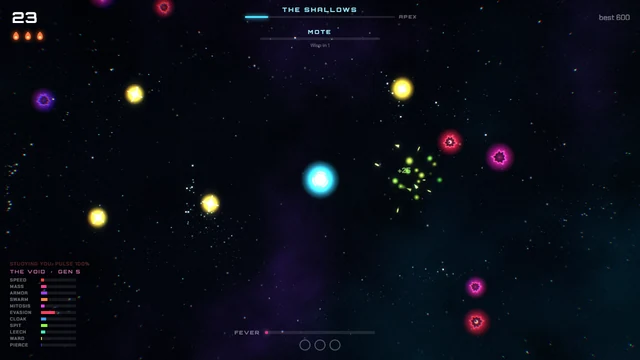
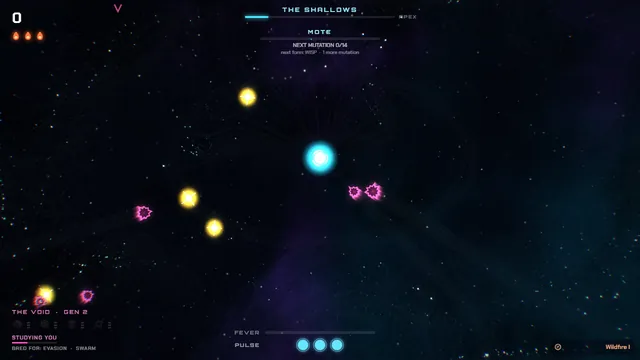
Verdant Relay's signal update, Ember 1.0, Foldworks Playability Update, Goblin Chapter Two; add Dumpster Alchemy and Nobody Mention the Moon
- Updated pages for Verdant Relay, Ember, Foldworks and Goblin Pension Plan
- Two new games at the front of the Prototypes shelf, with live screenshots
- New Ember screenshots for 1.0
- A devlog post for the week; Verdant Relay replaces Pixel RTS in the spotlight

diff --git a/content/devlog/2026-11-09-the-signal-update-and-more.md b/content/devlog/2026-11-09-the-signal-update-and-more.md
@@ -1,0 +1,47 @@
+---
+title: "Verdant Relay gets an ending, Ember 1.0, and two new games"
+date: 2026-11-09
+summary: Verdant Relay's signal update, Ember 1.0, the Foldworks Playability Update, Goblin Pension Plan's Chapter Two, plus Dumpster Alchemy and Nobody Mention the Moon.
+cover: /assets/games/dumpster-alchemy/shot1.webp
+game: verdant-relay
+---
+
+A big week. Four games got major updates and two new ones are up.
+
+## Verdant Relay: the signal update
+
+[Verdant Relay](/games/verdant-relay/) has an ending now. Kill the five area bosses across your runs, build the Uplink for 800 Research, then hold its signal through the Canopy Colossus.
+
+- **Shorter runs:** 4 nights, about 35 minutes. It used to be 6 nights.
+- **You fight at night:** your scavenger is on the board beside the towers. Hold E at a tower to overcharge it.
+- **What you find builds the run:** a run starts with three towers, and the Thorn Nest, Mortar Pod and Pulse Totem are blueprints you find in the jungle, and tower mods and machete upgrades are found, not crafted.
+- **More to chase:** four scavengers and eight legendary relics, each opened by a feat.
+- **Less to read:** a fresh first run shows about 17% fewer words, and the extra systems wait for run 2.
+
+Your Research and unlocks carry over, but a run saved before the update can't continue.
+
+## Ember 1.0: The Void's Turn
+
+[Ember](/games/ember/) hit 1.0. The void now answers how you kill it: pulse kills grow shells, loop kills grow wards, and each answer names its counter. Split your kills so no weapon makes 60% of them and the void can't read you. Forms are earned, every apex you slay evolves you, and the void remembers you between runs. A bot's typical run went from 174 seconds to 300.
+
+![Ember 1.0: the void card in the corner is studying you](/assets/games/ember/cover.webp)
+
+## Foldworks: the Playability Update
+
+[Foldworks](/games/foldworks/) had a full playability review and then a lot of changes. Folding is now the second research, so a bot's first fold went from 24 minutes to about 5. Finishing the Floating City is the ending, with credits. Machine Kits, machine modes, Inspiration and the Lucky Vein are cut, and the District routes itself. Old saves are converted.
+
+## Goblin Pension Plan: Chapter Two
+
+[Goblin Pension Plan](/games/goblin-pension-plan/) got a playability pass and a second chapter. The first trip has a fight of your own now, a guide line names your next step, and Chapter Two is the actual pension plan: six rungs of permits from the Goblin Door to the Four-Poster, each one changing the Burrow, up to Retirement Day.
+
+## New: Dumpster Alchemy
+
+[Dumpster Alchemy](/games/dumpster-alchemy/) is a gross, loud merge game. You run the night shift at a raccoon-run landfill: merge junk into better junk, brew 20 recipes, feed the raccoons and keep the stink down. Version 2.0 makes a run 10 nights across the County Dump with three boss nights.
+
+![Dumpster Alchemy: night 1 at Lot 9](/assets/games/dumpster-alchemy/shot1.webp)
+
+## New: Nobody Mention the Moon
+
+[Nobody Mention the Moon](/games/nobody-mention-the-moon/) is a co-op dinner party for up to 6. Every guest is a monster pretending to be human, and they all think you're one too. Your voice counts: say "moon" near the werewolf and you'll find out why it's the title. The web version is solo only for now, because online dinners need a game server that isn't hosted yet.
+
+Both new games are on the Prototypes shelf.

diff --git a/README.md b/README.md
@@ -14,6 +14,8 @@ The home of ycgNem's games: free browser games built with AI and shown in the op
 | Pixel RTS | https://ycgnem.github.io/games/pixel-rts/ |
 | Foldworks | https://ycgnem.github.io/games/foldworks/ |
 | Stillframe | https://ycgnem.github.io/games/stillframe/ |
+| Dumpster Alchemy | https://ycgnem.github.io/games/dumpster-alchemy/ |
+| Nobody Mention the Moon | https://ycgnem.github.io/games/nobody-mention-the-moon/ |
 | The Mountain Is a Machine | https://ycgnem.github.io/games/the-mountain-is-a-machine/ |
 | The Last Lighthouse | https://ycgnem.github.io/games/last-lighthouse/ |
 | Goblin Pension Plan | https://ycgnem.github.io/games/goblin-pension-plan/ |
